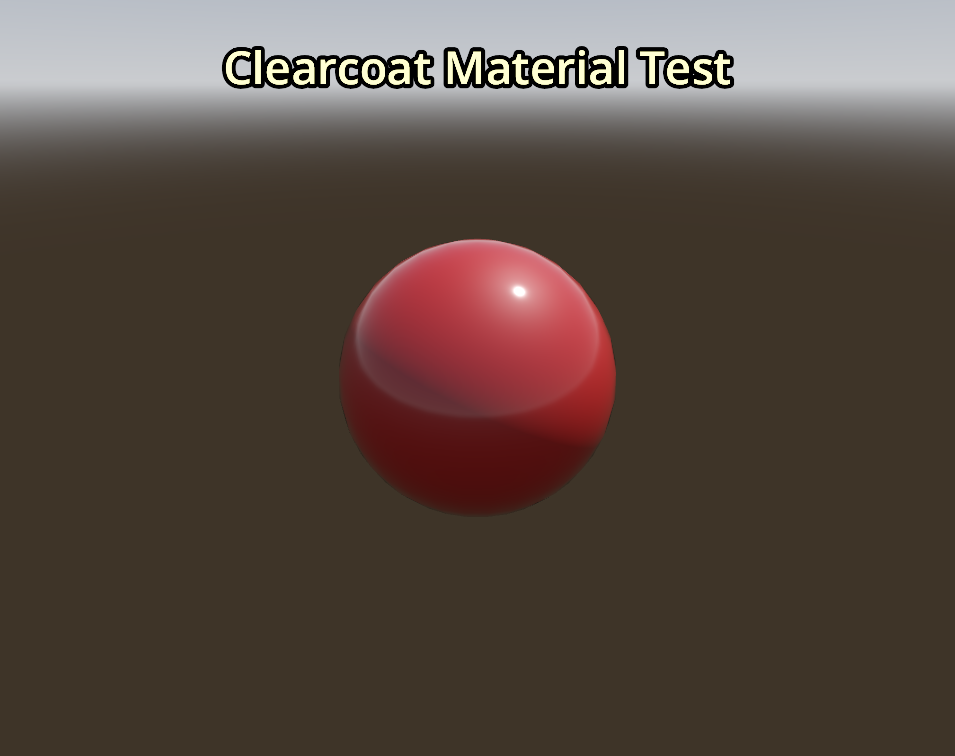
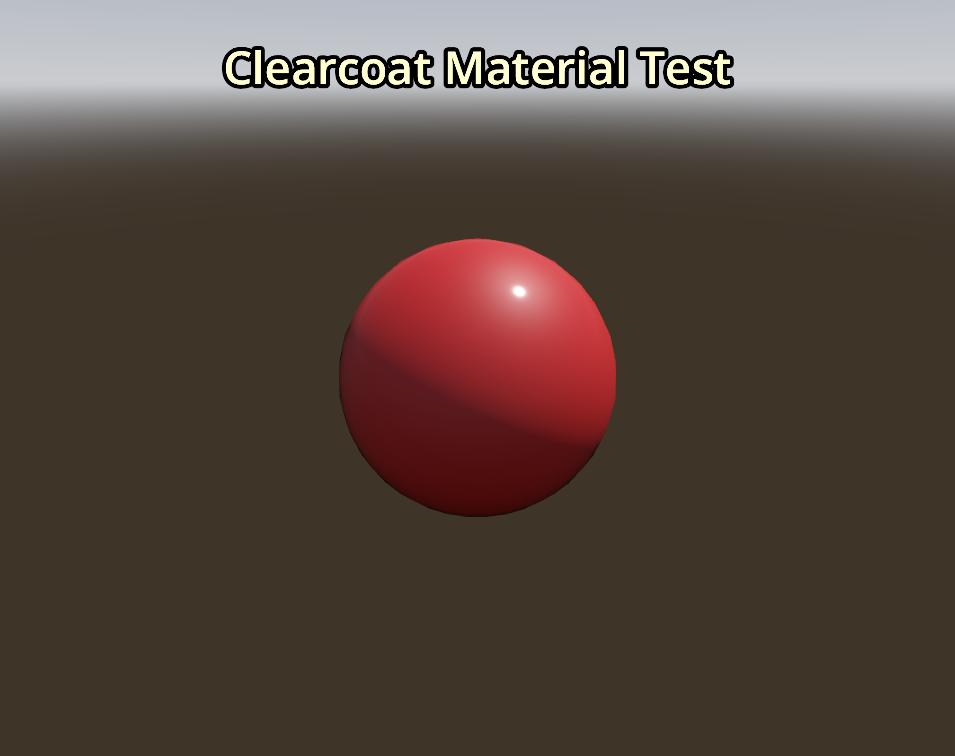
test(goldens): add area light mode and clearcoat layering goldens
area-light-modes draws four spheres under one AreaLight3D in the
default, toon, specular-disabled and clearcoat modes.
material-clearcoat-layering draws a coated sphere beside a bare one
under an omni light and a sky. area-light-normalize moves by at most
3/255 with main's light function.

Claude-Session: https://claude.ai/code/session_01QjXkF5bKfxE5Rw6WriSXbu

diff --git a/docs/comparison/index.html b/docs/comparison/index.html
@@ -395,7 +395,7 @@ tr:last-child td{border-bottom:0}
           <button data-mode="sbs" aria-pressed="false">Side by side</button>
         </div>
       </div>
-      <div class="prose"><p>Godot's rectangular area lamp, which lights the side its local -Z faces. The previewer draws Godot 4.7.2's area light: <code>light_energy</code> spread over <code>area_size</code>, faded by <code>area_range</code> and <code>area_attenuation</code>, with <code>light_specular</code> on the highlight. The reference image comes from Godot 4.7.2, as Godot 4.6.3 emits no light from the node.</p>
+      <div class="prose"><p>Godot's rectangular area lamp, which lights the side its local -Z faces. The previewer draws Godot 4.7.2's area light: <code>light_energy</code> spread over <code>area_size</code>, faded by <code>area_range</code> and <code>area_attenuation</code>, with <code>light_specular</code> on the highlight. It shades each material in its <code>diffuse_mode</code> and <code>specular_mode</code>, and a clearcoat dims the light beneath it. The reference image comes from Godot 4.7.2, as Godot 4.6.3 emits no light from the node.</p>
 <h3>Linting</h3>
 <p>Strict parsing format-checks these <code>AreaLight3D</code> properties, plus 27 inherited from Light3D, 1 inherited from VisualInstance3D, 17 inherited from Node3D, 10 inherited from Node. A malformed value is always an <strong>error</strong>; a value that is merely outside a bound is an error only where Godot's setter refuses it, and a <strong>warning</strong> where only the property's inspector hint states the bound (<a class="adr" href="https://github.com/Vortiago/textscene-inspector/blob/main/docs/adr/0032-diagnostics-are-grounded-in-the-engine-source.md" target="_blank" rel="noopener">ADR-0032</a>).</p>
 <div class="tablewrap"><table><thead><tr><th>Property</th><th>Accepts</th><th>Out of range</th></tr></thead><tbody><tr><td><code>area_attenuation</code></td><td>float</td><td></td></tr><tr><td><code>area_normalize_energy</code></td><td>true or false</td><td></td></tr><tr><td><code>area_range</code></td><td>float &gt;= 0</td><td>warning below</td></tr><tr><td><code>area_size</code></td><td>Vector2(x, y), each &gt;= 0</td><td></td></tr><tr><td><code>area_texture</code></td><td>null, SubResource(&quot;id&quot;), ExtResource(&quot;id&quot;) or Resource(&quot;path&quot;)</td><td></td></tr></tbody></table></div>
@@ -5892,7 +5892,7 @@ tr:last-child td{border-bottom:0}
           <button data-mode="sbs" aria-pressed="false">Side by side</button>
         </div>
       </div>
-        <div class="prose"><p>A red sphere with a glossy clear coat. <code>clearcoat</code> maps to <code>MeshPhysicalMaterial.clearcoat</code>, and both engines show the same tight highlight over the red body.</p></div>
+        <div class="prose"><p>A red sphere with a glossy clear coat. <code>clearcoat</code> maps to <code>MeshPhysicalMaterial.clearcoat</code>, and both engines show the same tight highlight over the red body. As in Godot, the coat dims only the sky's ambient light and reflection beneath it, not an omni, spot or directional light.</p></div>
       </section>
       <section class="prop">
         <div class="prop-head"><h3>Rim</h3><span class="status st-limitation">Limitation</span></div>

diff --git a/apps/textscene-web/src/fixtures.ts b/apps/textscene-web/src/fixtures.ts
@@ -2208,6 +2208,11 @@ export const fixtures: Fixture[] = [
     "category": "Unit - 2D Canvas"
   },
   {
+    "name": "Area Light Modes",
+    "file": "unit-area-light-modes.tscn",
+    "category": "Unit - Lights"
+  },
+  {
     "name": "Area Light Normalize",
     "file": "unit-area-light-normalize.tscn",
     "category": "Unit - Lights"
@@ -2925,6 +2930,11 @@ export const fixtures: Fixture[] = [
   {
     "name": "Material Billboard",
     "file": "unit-material-billboard.tscn",
+    "category": "Unit - Materials"
+  },
+  {
+    "name": "Material Clearcoat Layering",
+    "file": "unit-material-clearcoat-layering.tscn",
     "category": "Unit - Materials"
   },
   {
